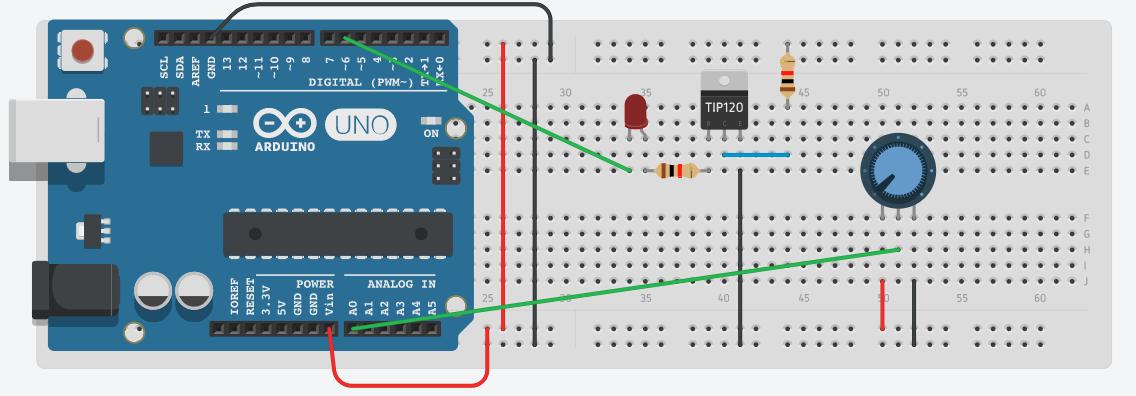
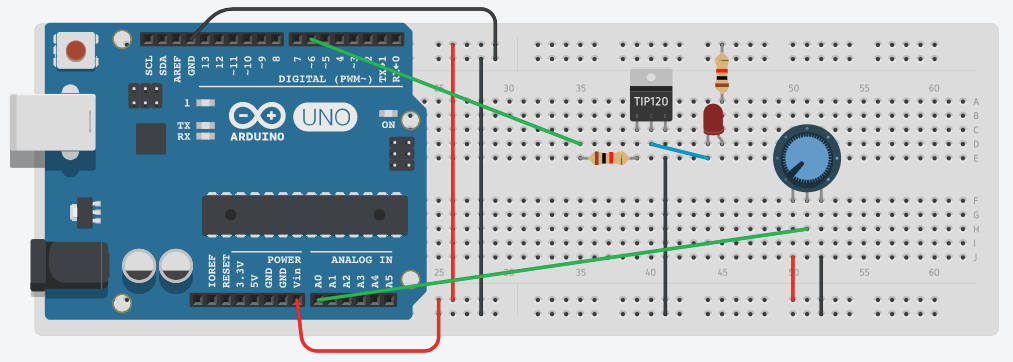
Creates assets/sin-edub-altavoz.png
Auto commit by GitBook Editor

Changed region(s): [[0.0306, 0.0, 1.0, 1.0], [0.0, 0.395, 0.1224, 0.6685]]

diff --git a/montaje_14_pitido.md b/montaje_14_pitido.md
@@ -1,15 +1,22 @@
 
 # Montaje 14: Pitido
+Vamos a incorporar un altavoz y realizar una sirena. Al ser una bobina, es conveniente utilizar una amplificación por medio de un transistor, por D6 enviaremos la señal cuadrada a la base del transistor.
+
+##SIN EDUBASICA
+
+![](/assets/sin-edub-altavoz.png)
 
 ## Con EDUBÁSICA
 
-Al ser una bobina, es conveniente utilizar una amplificación por medio de un transistor, utilizaremos EDUBASICA y conectaremos el altavoz en el tereminal X2 y el interruptor V1 en ON para que esté alimentado
+Conectaremos el altavoz en el tereminal X2 y el interruptor V1 en ON para que esté alimentado
 
 ![](img/img0.11.png)
 
-El código es muy sencillo, simplemente es una intermitencia por** D6** que en este caso se ha elegido **1ms** ¿que pasaría si aumentamos este valor?
+##Continuamos ...
 
-```cpp
+El código es muy sencillo, simplemente es una intermitencia por** D6** que en este caso se ha elegido **1mseg** ¿que pasaría si aumentamos este valor?
+
+```cpp+lineNumbers:true
 void setup() {
   // put your setup code here, to run once:
   pinMode(6, OUTPUT); 
@@ -28,14 +35,18 @@ El resultado es :
 
 {% youtube %}https//www.youtube.com/watch?v=7SsKMj2WMSw?rel=0{% endyoutube %}
 
-## Sin EDUBÁSICA
+## SIN EDUBÁSICA Y SIN TRANSISTOR A LO BRUTO !
 
 Bueno, vamos a conectarlo DIRECTAMENTE a D6 (el otro extremo a GND) no es muy conveniente pero a ver el resultado (con el mismo código):
 
 {% youtube %}https//www.youtube.com/watch?v=wcJBEfr8hNo?rel=0{% endyoutube %}
-## Premio de un jamón de Teruel quien conteste bien a esta pregunta:
 
 ¿Cuál suena más?
+
+> Premio entrada a dinópolis Teruel quien acierte..
+
+<iframe src="https://giphy.com/embed/3o6gb18J2gERJiLmmc" width="480" height="352" frameBorder="0" class="giphy-embed" allowFullScreen></iframe><p><a href="https://giphy.com/gifs/oscars-academy-awards-3o6gb18J2gERJiLmmc">via GIPHY</a></p>
+
 
 
 

diff --git a/bobinasaltavoz.md b/bobinasaltavoz.md
@@ -4,7 +4,12 @@ El altavoz es una simple bobina o electroimán que mueve una membrana, si la mem
 
 Este sonido es audible si está dentro de nuestro rango auditivo, suele ser entre 20Hz y 20kHz
 
-_¿Sabías que a medida que creces el margen de agudos \(20kHz\) baja?_
+
 
 ![](img/img0.10.png)
+
+> ¿Sabías que a medida que creces el margen de agudos \(20kHz\) baja?
+
+
+<iframe src="https://giphy.com/embed/4njYZD26XnY7C" width="480" height="360" frameBorder="0" class="giphy-embed" allowFullScreen></iframe><p><a href="https://giphy.com/gifs/4njYZD26XnY7C">via GIPHY</a></p>
 

diff --git a/SUMMARY.md b/SUMMARY.md
@@ -54,8 +54,8 @@
   * [3.5.4 Montaje 12: Con un diodo se ve bien](montaje_12_con_un_diodo_se_ve_bien.md)
   * [3.5.5 Montaje 13: cálculo de hfe](montaje_13_clculo_de_hfe.md)
   * [3.5.7 Recta de carga de un transistor](recta_de_carga_de_un_transistor.md)
-* [Bobinas-altavoz](bobinasaltavoz.md)
-  * [Montaje 14: Pitido](montaje_14_pitido.md)
+* [3.6 Bobinas-altavoz](bobinasaltavoz.md)
+  * [3.6.1 Montaje 14: Pitido](montaje_14_pitido.md)
   * [Montaje 15: Alarma con EDUBASICA](montaje_15_alarma_con_edubasica.md)
 * [Créditos](crditos2.md)
 
